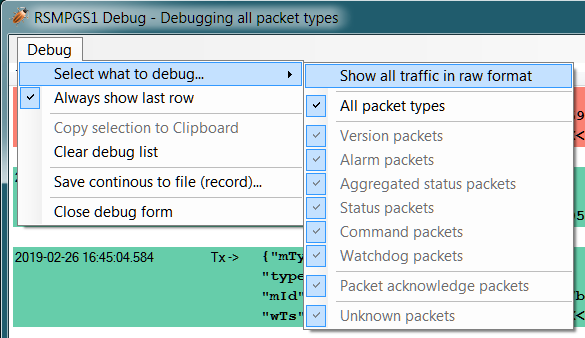
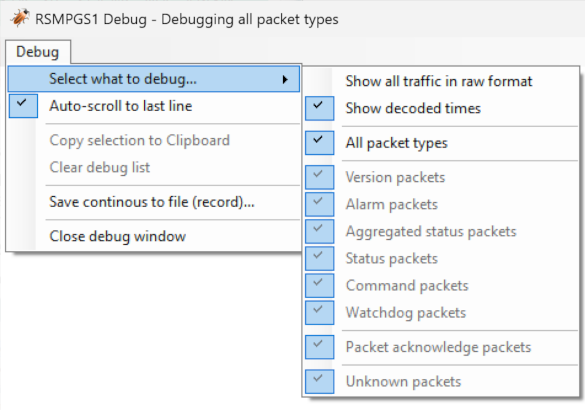
Update documentation regarding decoded times in debug window (#115)
* Documentation: Use the terminology "debug window" rather than "debug form"
* Documentation: Add 'show decoded times'

diff --git a/Documents/Manual_RSMPGS1.rst b/Documents/Manual_RSMPGS1.rst
@@ -82,7 +82,7 @@ selected in the interface. Interval in milliseconds.
 
 **MaxDebugLines**
 
-Number of lines shown in the Debug-forms.
+Number of lines shown in the Debug windows.
 
 **DaysToKeepLogFiles**
 
@@ -241,17 +241,17 @@ Loading new objects is only available if the simulator is disconnected
 
 **Debug - Create new debug window**
 
-Creates a new debug window. Any number of debug forms can be created, but it
+Creates a new debug window. Any number of debug windows can be created, but it
 will affect performance.
 
 **Debug - Tile all debug windows**
 
-Moves all debug forms to the right of RSMPGS1 (if there is space) and puts them
+Moves all debug windows to the right of RSMPGS1 (if there is space) and puts them
 in a line.
 
 **Debug - Close all debug windows**
 
-Closes all debug forms.
+Closes all debug windows.
 
 **Debug - Store base64 updates**
 
@@ -648,7 +648,7 @@ log.
 Test send
 ^^^^^^^^^
 JSon is text based and in this tab text files can be sent as is. The files may
-be JSon debug data from the debug-forms.
+be JSon debug data from the debug window.
 
 .. image:: img/test_send.png
    :align: left
@@ -698,10 +698,10 @@ If a lot of buffered messages are to be sent when connected, the system log
 will be flooded and take some time to fill. Ticking this box will significally
 improve speed.
 
-Debug form
-----------
-The Debug form shows sent and received data more or less formatted depending on
-chosen display format.
+Debug window
+------------
+The Debug window shows sent and received data more or less formatted depending
+on chosen display format.
 
 .. image:: img/debug.png
    :align: left
@@ -712,15 +712,14 @@ The red texts are messages which are received, green texts are the ones which
 are sent out. The time stamp has millisecond resolution which is shown if the
 column is expanded somewhat.
 
-If show raw data is not selection, then RSMPGS1 will format the text for better
-readability. If there are CR/LF and tabs in the received Json, these control
-characters will be used to increase readability. If not, RSMPGS1 will use a set
-of simple rules to format the text.
+If ``Show all traffic in raw format`` is not selected, then RSMPGS1 will format
+the text for better readability.
+If there are CR/LF and tabs in the received Json, these control characters will
+be used to increase readability. If not, RSMPGS1 will use a set of simple rules
+to format the text.
 
-RSMPGS1 is always removing CR/LF, tabs and finalizing form feed (FF) before
+RSMPGS1 is always removing CR/LF, tabs and the ending form feed (FF) before
 deserializing.
-
-Time stamps are also presented decoded in both UTC and local time.
 
 .. image:: img/select_debug.png
    :align: left
@@ -732,6 +731,10 @@ Time stamps are also presented decoded in both UTC and local time.
 Shows all packets unformatted in raw data format. ASCII codes which RSMPGS1 is
 not certain if they are writable are shown as <ASCII> i hex-format, e. g.
 <0x0c> for formfeed.
+
+**Select what to debug - Show decoded time**
+
+Show the time stamp in both UTC and local time.
 
 **Select what to debug – All packet types**
 
@@ -764,7 +767,7 @@ File name and file location are determined by the user. RSMPGS1 suggests the
 folder name ``\LogFiles\DebugFiles.``
 
 If the file does not exist it will be created and filled up with new debug
-data. The same data which is presented in the form is stored in the file. The
+data. The same data which is presented in the window is stored in the file. The
 file is an ordinary text file and will be flushed every 100 milliseconds.
 Because of this, it can be copied or opened (only for reading) with complete
 contents without having to be closed first.

diff --git a/Documents/Manual_RSMPGS2.rst b/Documents/Manual_RSMPGS2.rst
@@ -85,7 +85,7 @@ selected in the interface. Interval in milliseconds.
 
 **MaxDebugLines**
 
-Number of lines shown in the Debug-forms.
+Number of lines shown in the Debug windows.
 
 **DaysToKeepLogFiles**
 
@@ -248,17 +248,17 @@ Loading new objects is only available if the simulator is disconnected
 
 **Debug - Create new debug window**
 
-Creates a new debug window. Any number of debug forms can be created, but it
+Creates a new debug window. Any number of debug windows can be created, but it
 will affect performance.
 
 **Debug - Tile all debug windows**
 
-Moves all debug forms to the right of RSMPGS2 (if there is space) and puts them
+Moves all debug windows to the right of RSMPGS2 (if there is space) and puts them
 in a line.
 
 **Debug - Close all debug windows**
 
-Closes all debug forms.
+Closes all debug windows.
 
 **Debug - Store base64 updates**
 
@@ -631,7 +631,7 @@ the ``Value`` column.
 Test send
 ^^^^^^^^^
 JSon is text based and in this tab text files can be sent as is. The files may
-be JSon debug data from the debug forms.
+be JSon debug data from the debug windows.
 
 .. image:: img/test_send.png
    :align: left
@@ -653,10 +653,10 @@ sent.
 
 Open and read a text file inte the above text form.
 
-Debug form
-----------
-The Debug form shows sent and received data more or less formatted depending on
-chosen display format.
+Debug window
+------------
+The Debug window shows sent and received data more or less formatted depending
+on chosen display format.
 
 .. image:: img/debug.png
    :align: left
@@ -667,15 +667,14 @@ The red texts are messages which are received, green texts are the ones which
 are sent out. The time stamp has millisecond resolution which is shown if the
 column is expanded somewhat.
 
-If show raw data is not selection, then RSMPGS2 will format the text for better
-readability. If there are CR/LF and tabs in the received Json, these control
-characters will be used to increase readability. If not, RSMPGS2 will use a set
-of simple rules to format the text.
+If ``Show all traffic in raw format`` data is not selected, then RSMPGS2 will
+format the text for better readability.
+If there are CR/LF and tabs in the received Json, these control characters will
+be used to increase readability. If not, RSMPGS2 will use a set of simple rules
+to format the text.
 
-RSMPGS2 is always removing CR/LF, tabs and finalizing form feed (FF) before
+RSMPGS2 is always removing CR/LF, tabs and the ending form feed (FF) before
 deserializing.
-
-Time stamps are also presented decoded in both UTC and local time.
 
 .. image:: img/select_debug.png
    :align: left
@@ -687,6 +686,10 @@ Time stamps are also presented decoded in both UTC and local time.
 Shows all packets unformatted in raw data format. ASCII codes which RSMPGS2 is
 not certain if they are writable are shown as <ASCII> i hex-format, e. g.
 <0x0c> for formfeed.
+
+**Select what to debug - Show decoded time**
+
+Show the time stamp in both UTC and local time.
 
 **Select what to debug – All packet types**
 
@@ -719,7 +722,7 @@ File name and file location are determined by the user. RSMPGS2 suggests the
 folder name ``\LogFiles\DebugFiles.``
 
 If the file does not exist it will be created and filled up with new debug
-data. The same data which is presented in the form is stored in the file. The
+data. The same data which is presented in the window is stored in the file. The
 file is an ordinary text file and will be flushed every 100 milliseconds.
 Because of this, it can be copied or opened (only for reading) with complete
 contents without having to be closed first.
